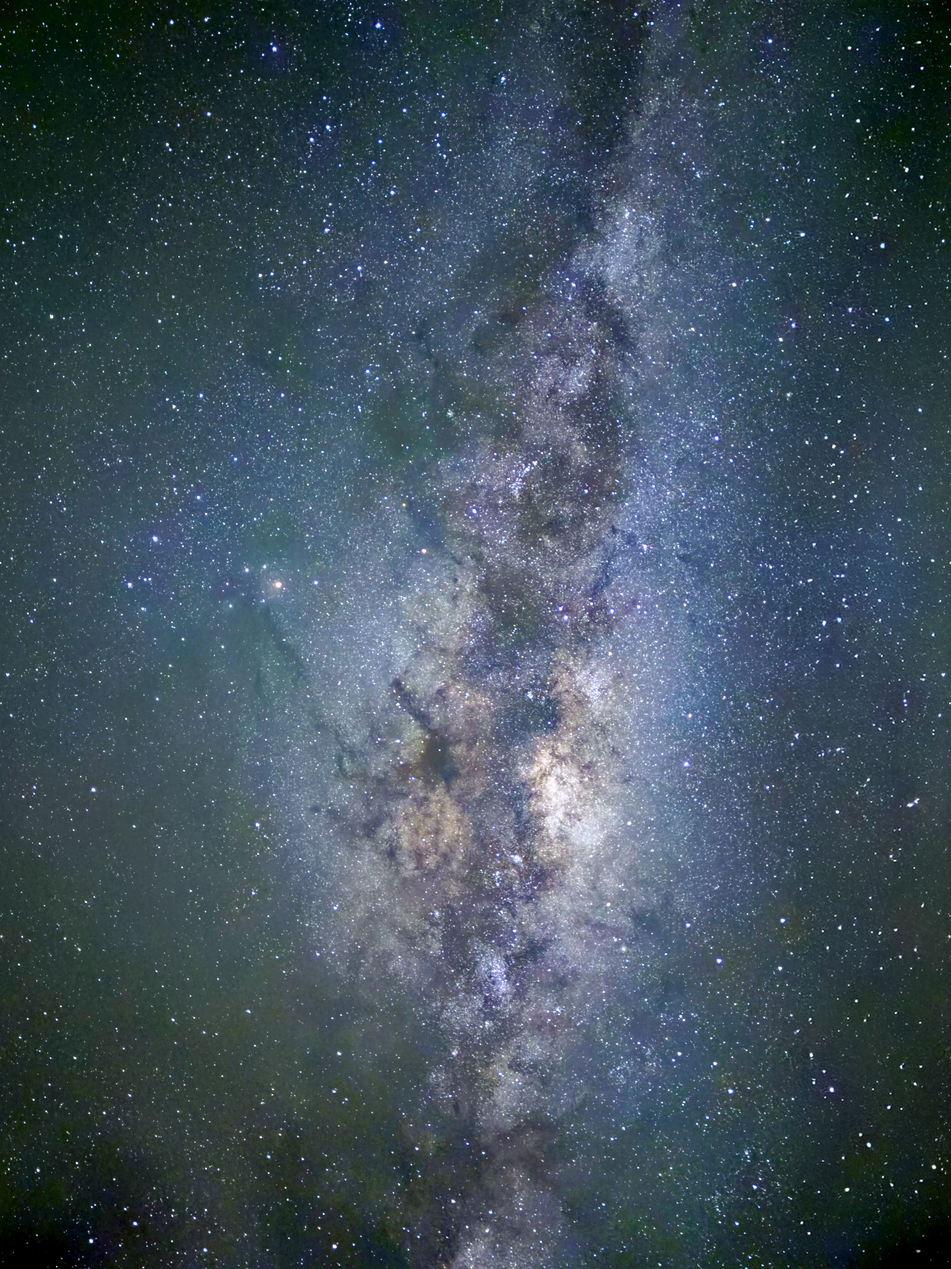
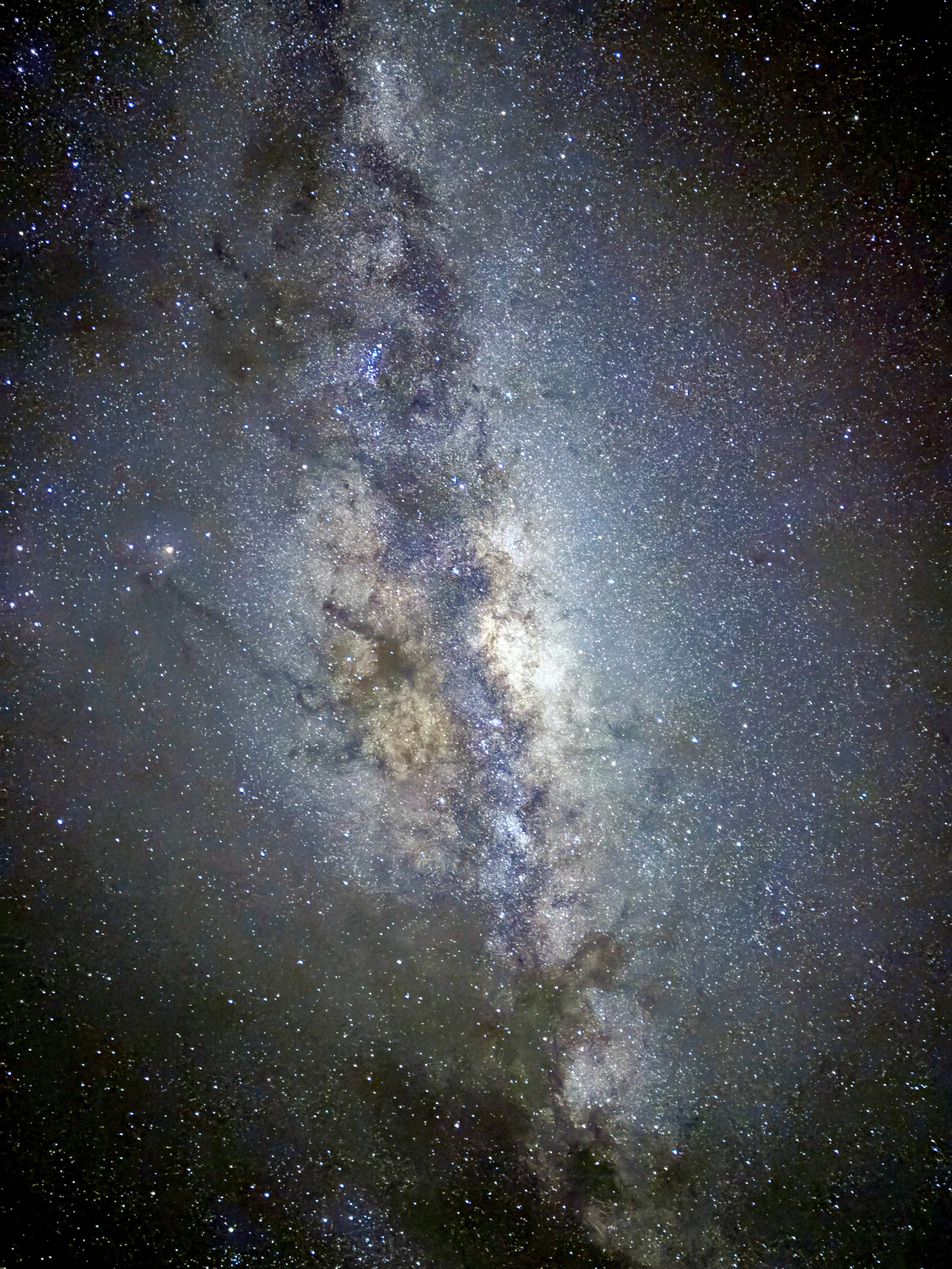
update mw photo

diff --git a/index.html b/index.html
@@ -346,8 +346,8 @@ var STYLE_PREFIX = 'wsite';
 				</td>
 				<td class="wsite-multicol-col" style="width:33.333333333333%; padding:0 15px;">
 <div><div class="wsite-image wsite-image-border-none " style="padding-top:10px;padding-bottom:10px;margin-left:0;margin-right:0;text-align:center">
-<a href="uploads/images/magellan_milkyway2.jpg" target="_blank">
-<img src="uploads/images/magellan_milkyway2.jpg" alt="The Milky Way" style="width:auto;max-width:100%" />
+<a href="uploads/images/magellan_milkyway.jpg" target="_blank">
+<img src="uploads/images/magellan_milkyway.jpg" alt="The Milky Way" style="width:auto;max-width:100%" />
 </a>
 </div></div>
 				</td>
